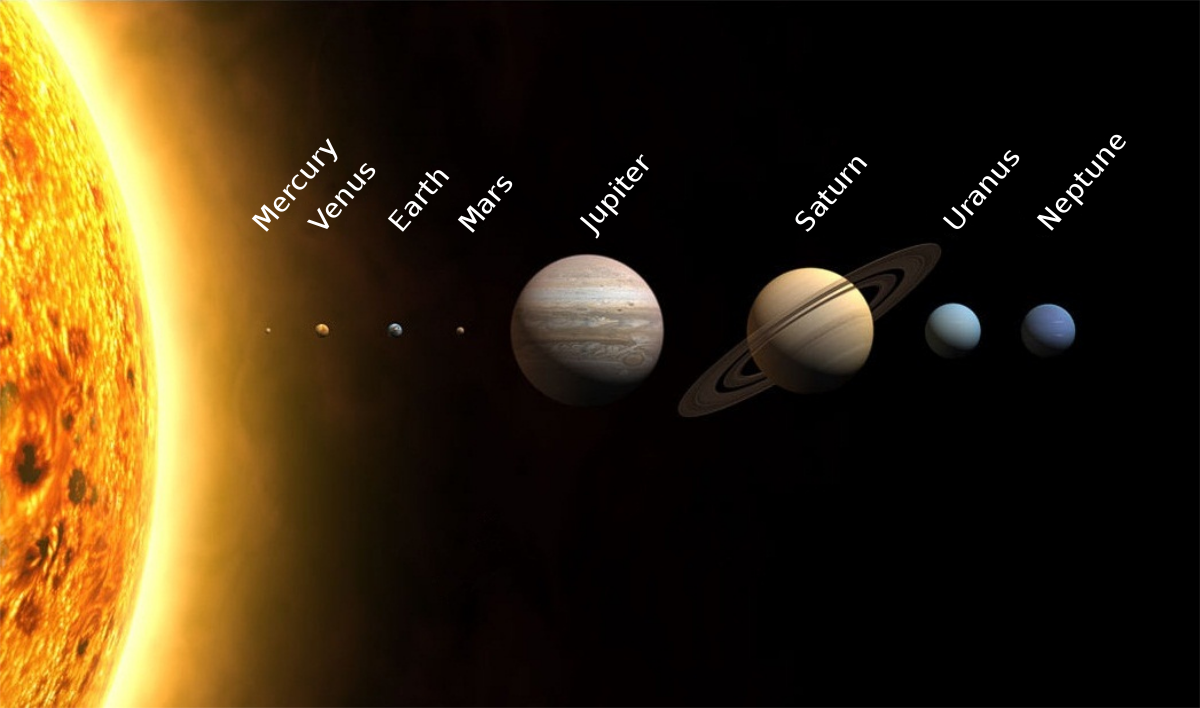
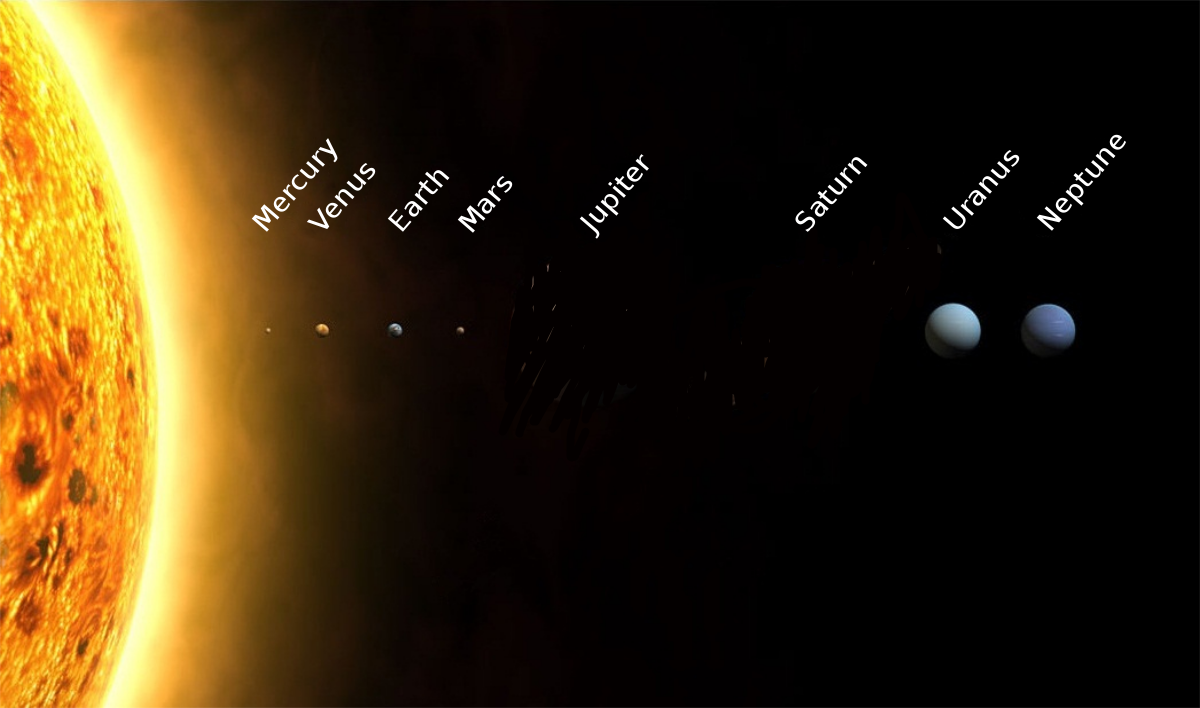
add planet gifs to animate planets

Changed region(s): [[0.555, 0.3418, 0.8017, 0.5904], [0.4008, 0.3418, 0.555, 0.5593]]

diff --git a/src/styles.css b/src/styles.css
@@ -27,51 +27,75 @@ body {
   height: 5vh;
   width: 3vw;
   opacity: 1;
+  background-image: url('./assets/venusgif.gif');
+  background-position: center;
+  background-size: cover;
 }
 
 #Earth {
   margin-left: 31.5vw;
   margin-top: -5vh;
-  height: 5vh;
+  height: 6.5vh;
   width: 3vw;
   opacity: 1;
+  background-image: url('./assets/earthgif.gif');
+  background-position: center;
+  background-size: cover;
 }
 
 #Mars {
   margin-left: 37vw;
-  margin-top: -5vh;
-  height: 5vh;
+  margin-top: -6vh;
+  height: 6vh;
   width: 3vw;
   opacity: 1;
+  background-image: url('./assets/marsgif.gif');
+  background-position: center;
+  background-size: cover;
 }
 
 #Jupiter {
   margin-left: 42.5vw;
   margin-top: -16vh;
-  height: 25vh;
+  height: 27vh;
   width: 13vw;
   opacity: 1;
+  background-image: url('./assets/jupitergif.gif');
+  background-size: 100%;
+  background-repeat: no-repeat;
+  background-position: center;
 }
 
 #Saturn {
-  margin-left: 61vw;
-  margin-top: -24vh;
-  height: 25vh;
-  width: 13vw;
+  background-image: url('./assets/saturngif.gif');
+  background-size: cover;
+  background-position: center;
+  margin-left: 58vw;
+  margin-top: -28vh;
+  height: 28vh;
+  width: 18vw;
 }
 
 #Uranus {
-  margin-left: 77vw;
+  background-image: url(./assets/uranusgif.gif);
+  background-size: 100%;
+  background-repeat: no-repeat;
+  background-position: center;
+  margin-left: 75vw;
   margin-top: -18vh;
   height: 10vh;
-  width: 5vw;
+  width: 8vw;
 }
 
 #Neptune {
-  margin-left: 85vw;
-  margin-top: -10vh;
-  height: 10vh;
-  width: 5vw;
+  background-image: url('./assets/neptunegif.gif');
+  background-size: 170%;
+  background-repeat: no-repeat;
+  background-position: center;
+  margin-left: 84vw;
+  margin-top: -12vh;
+  height: 15vh;
+  width: 8vw;
 }
 
 .clickable {
